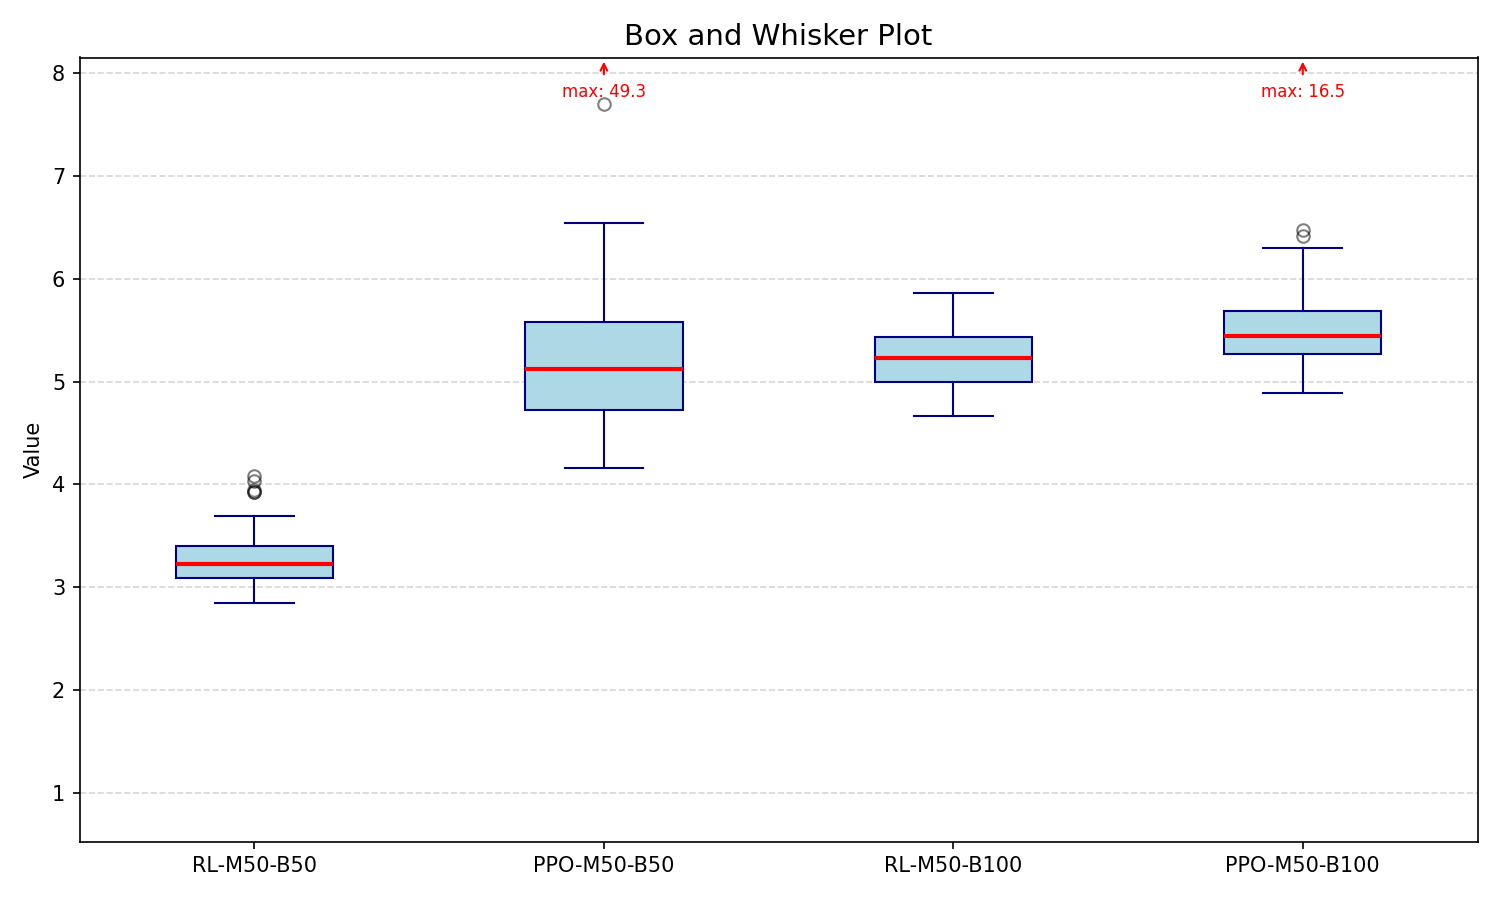
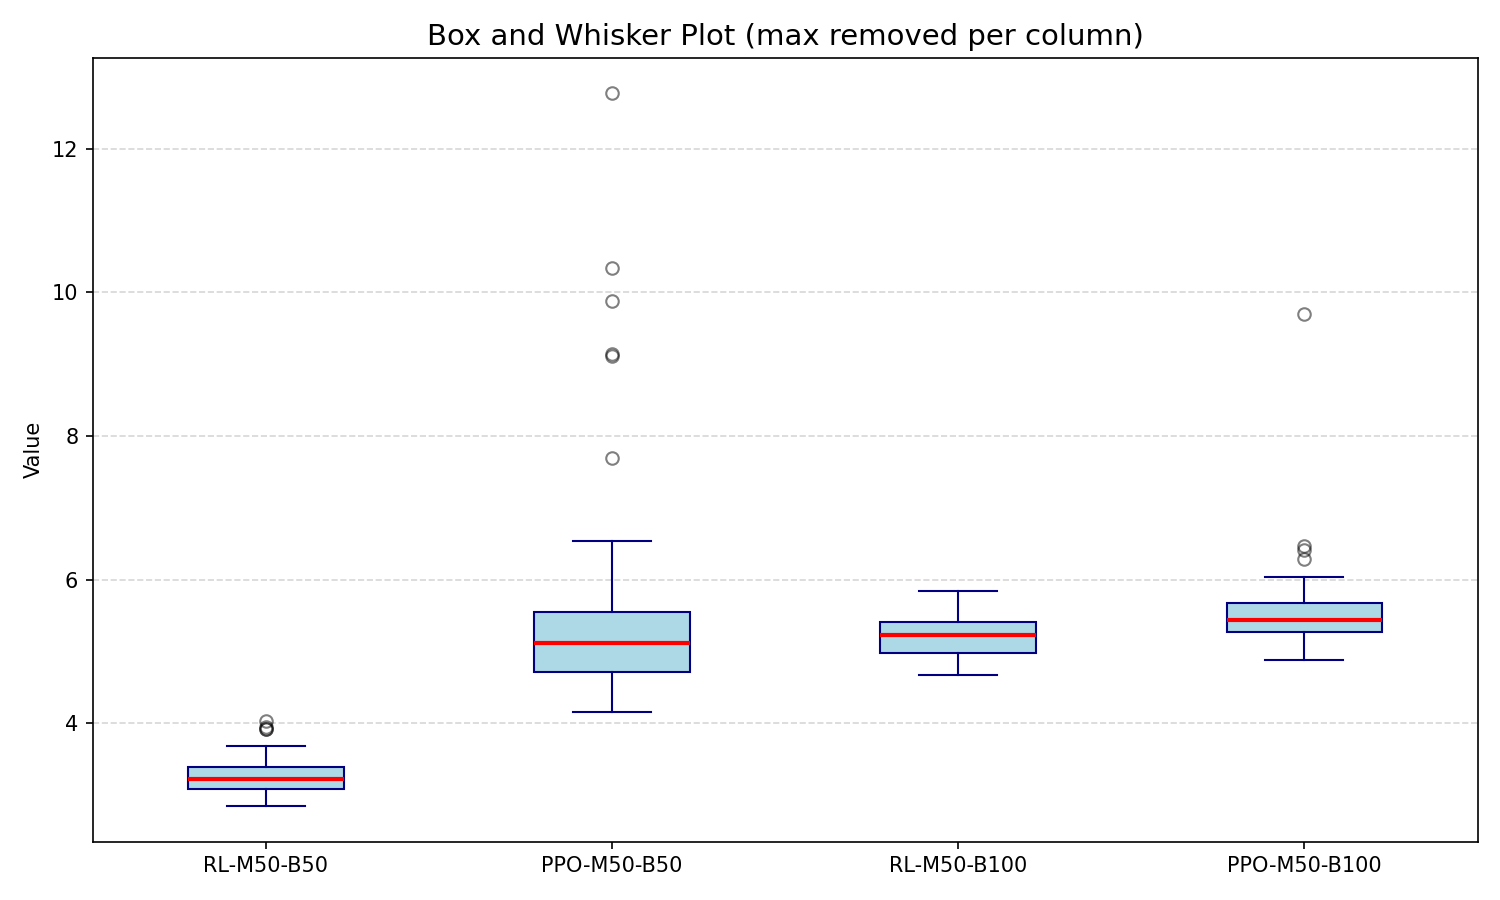
done with box plot and added 24hr csv

diff --git a/mainsim.py b/mainsim.py
@@ -7,8 +7,10 @@ from results import makeResults
 from ppo_model import PPOAgent
 
 BASE_PORT = 3000
-jar_path = "PPO_ACT_10VM.jar"
-MODEL_PATH = "C:/Users/ss4587s/Desktop/DDQN-150/checkpoints/checkpoint_step_3200.pth"
+# jar_path = "24HOUR-SIMV3.jar"
+jar_path = "24HOUR-SIM-PPO.jar"
+MODEL_PATH = "C:/Users/ss4587s/Desktop/DDQN-150/checkpoints/checkpoint_step_3200.pth" # PPO
+# MODEL_PATH = "C:/Users/ss4587s/Desktop/checkpoint_step_5200.pth"
 num_epochs = 100
 MAX_CONCURRENT = 2  # Limit to 2 concurrent Java processes
 
@@ -24,17 +26,17 @@ EXPERIMENT_CONDITIONS = {
     # "RL-9": ["--", BASE_PORT+6, 450, 5, num_epochs, "DY-V2-450"],
     # "RL-19": ["--", BASE_PORT+6, 500, 5, num_epochs, "DY-V2-500"],
     # "RL-6": ["--", BASE_PORT+6, 100, 3 ]
-    "RL-1": [MODEL_PATH, BASE_PORT+1, 50, 4, num_epochs, "RL-PPO-M50-CK3200-B50"],
-    "RL-2": [MODEL_PATH, BASE_PORT+2, 100, 4, num_epochs, "RL-PPO-M50-CK3200-B100"],
-    "RL-3": [MODEL_PATH, BASE_PORT+3, 150, 4, num_epochs, "RL-PPO-M50-CK3200-B150"],
-    "RL-4": [MODEL_PATH, BASE_PORT+4, 200, 4, num_epochs, "RL-PPO-M50-CK3200-B200"],
-    "RL-5": [MODEL_PATH, BASE_PORT+5, 250, 4, num_epochs, "RL-PPO-M50-CK3200-B250"],
-    "RL-6": [MODEL_PATH, BASE_PORT+6, 300, 4, num_epochs, "RL-PPO-M50-CK3200-B300"],
-    "RL-7": [MODEL_PATH, BASE_PORT+7, 350, 4, num_epochs, "RL-PPO-M50-CK3200-B350"],
-    "RL-8": [MODEL_PATH, BASE_PORT+8, 400, 4, num_epochs, "RL-PPO-M50-CK3200-B400"],
-    "RL-9": [MODEL_PATH, BASE_PORT+9, 450, 4, num_epochs, "RL-PPO-M50-CK3200-B450"],
-    "RL-10": [MODEL_PATH, BASE_PORT+10, 500, 4, num_epochs, "RL-PPO-M50-CK3200-B500"],
-
+    # "RL-1": [MODEL_PATH, BASE_PORT+1, 50, 4, num_epochs, "RL-PPO-M50-CK3200-B50"],
+    # "RL-2": [MODEL_PATH, BASE_PORT+2, 100, 4, num_epochs, "RL-PPO-M50-CK3200-B100"],
+    # "RL-3": [MODEL_PATH, BASE_PORT+3, 150, 4, num_epochs, "RL-PPO-M50-CK3200-B150"],
+    # "RL-4": [MODEL_PATH, BASE_PORT+4, 200, 4, num_epochs, "RL-PPO-M50-CK3200-B200"],
+    # "RL-5": [MODEL_PATH, BASE_PORT+5, 250, 4, num_epochs, "RL-PPO-M50-CK3200-B250"],
+    # "RL-6": [MODEL_PATH, BASE_PORT+6, 300, 4, num_epochs, "RL-PPO-M50-CK3200-B300"],
+    # "RL-7": [MODEL_PATH, BASE_PORT+7, 350, 4, num_epochs, "RL-PPO-M50-CK3200-B350"],
+    # "RL-8": [MODEL_PATH, BASE_PORT+8, 400, 4, num_epochs, "RL-PPO-M50-CK3200-B400"],
+    # "RL-9": [MODEL_PATH, BASE_PORT+9, 450, 4, num_epochs, "RL-PPO-M50-CK3200-B450"],
+    # "RL-10": [MODEL_PATH, BASE_PORT+10, 500, 4, num_epochs, "RL-PPO-M50-CK3200-B500"],
+    "RL-1": [MODEL_PATH, BASE_PORT+1, 0, 4],
 }
 
 flask_threads = []
@@ -42,8 +44,8 @@ experiment_threads = []
 semaphore = threading.Semaphore(MAX_CONCURRENT)
 
 # Start Flask servers
-for name, (model_path, port, _, _, _, _) in EXPERIMENT_CONDITIONS.items():
-# for name, (model_path, port, _, _ ) in EXPERIMENT_CONDITIONS.items(): 
+# for name, (model_path, port, _, _, _, _) in EXPERIMENT_CONDITIONS.items():
+for name, (model_path, port, _, _ ) in EXPERIMENT_CONDITIONS.items(): # uncomment for 24 hour simulations
     # agent = DQNAgent(model_path)
     agent = PPOAgent(model_path)
     app = create_flask_app(agent, port)
@@ -55,23 +57,23 @@ for name, (model_path, port, _, _, _, _) in EXPERIMENT_CONDITIONS.items():
     time.sleep(1.5)  # Allow server to start
 
 # Worker function to run each experiment
-def run_experiment(name, port, batch_size, lb_type, epochs, simName):
-# def run_experiment(name, port, batch_size, lb_type):
+# def run_experiment(name, port, batch_size, lb_type, epochs, simName):
+def run_experiment(name, port, batch_size, lb_type): # uncomment for 24 hour simulations
     with semaphore:
         print(f"🚀 Starting experiment {name}...")
         proc = subprocess.Popen([
             "java", "-jar", jar_path,
-            str(port), str(batch_size), str(lb_type), str(epochs), simName
-            # str(port), str(batch_size), str(lb_type)
+            # str(port), str(batch_size), str(lb_type), str(epochs), simName
+            str(port), str(batch_size), str(lb_type) # uncomment for 24 hour simulations
         ])
         proc.wait()
         print(f"✅ Finished experiment {name}")
 
 # Create and start threads (up to MAX_CONCURRENT will run at a time)
-for name, (model_path, port, batch_size, lb_type, epochs, simName) in EXPERIMENT_CONDITIONS.items():
-# for name, (model_path, port, batch_size, lb_type) in EXPERIMENT_CONDITIONS.items():
-    thread = threading.Thread(target=run_experiment, args=(name, port, batch_size, lb_type, epochs, simName))
-    # thread = threading.Thread(target=run_experiment, args=(name, port, batch_size, lb_type))
+# for name, (model_path, port, batch_size, lb_type, epochs, simName) in EXPERIMENT_CONDITIONS.items():
+for name, (model_path, port, batch_size, lb_type) in EXPERIMENT_CONDITIONS.items(): # uncomment for 24 hour simulations
+    # thread = threading.Thread(target=run_experiment, args=(name, port, batch_size, lb_type, epochs, simName))
+    thread = threading.Thread(target=run_experiment, args=(name, port, batch_size, lb_type)) # uncomment for 24 hour simulations
     thread.start()
     experiment_threads.append(thread)
 

diff --git a/dqn_model.py b/dqn_model.py
@@ -3,7 +3,7 @@ import torch.nn as nn
 import torch.optim as optim
 
 class DQN(nn.Module):
-    def __init__(self, input_dim=21, output_dim=8):
+    def __init__(self, input_dim=21, output_dim=10): # output dim change from 10 to 8
         super(DQN, self).__init__()
         self.model = nn.Sequential(
             nn.Linear(input_dim, 256),
@@ -21,7 +21,7 @@ class DQN(nn.Module):
         return self.model(x)
 
 class DQNAgent:
-    def __init__(self, path, state_dim=21, action_dim=8, gamma=0.99, lr=1e-3, batch_size=64):
+    def __init__(self, path, state_dim=21, action_dim=10, gamma=0.99, lr=1e-3, batch_size=64):  # action dim change from 10 to 8
         self.path = path
         self.state_dim = state_dim
         self.action_dim = action_dim